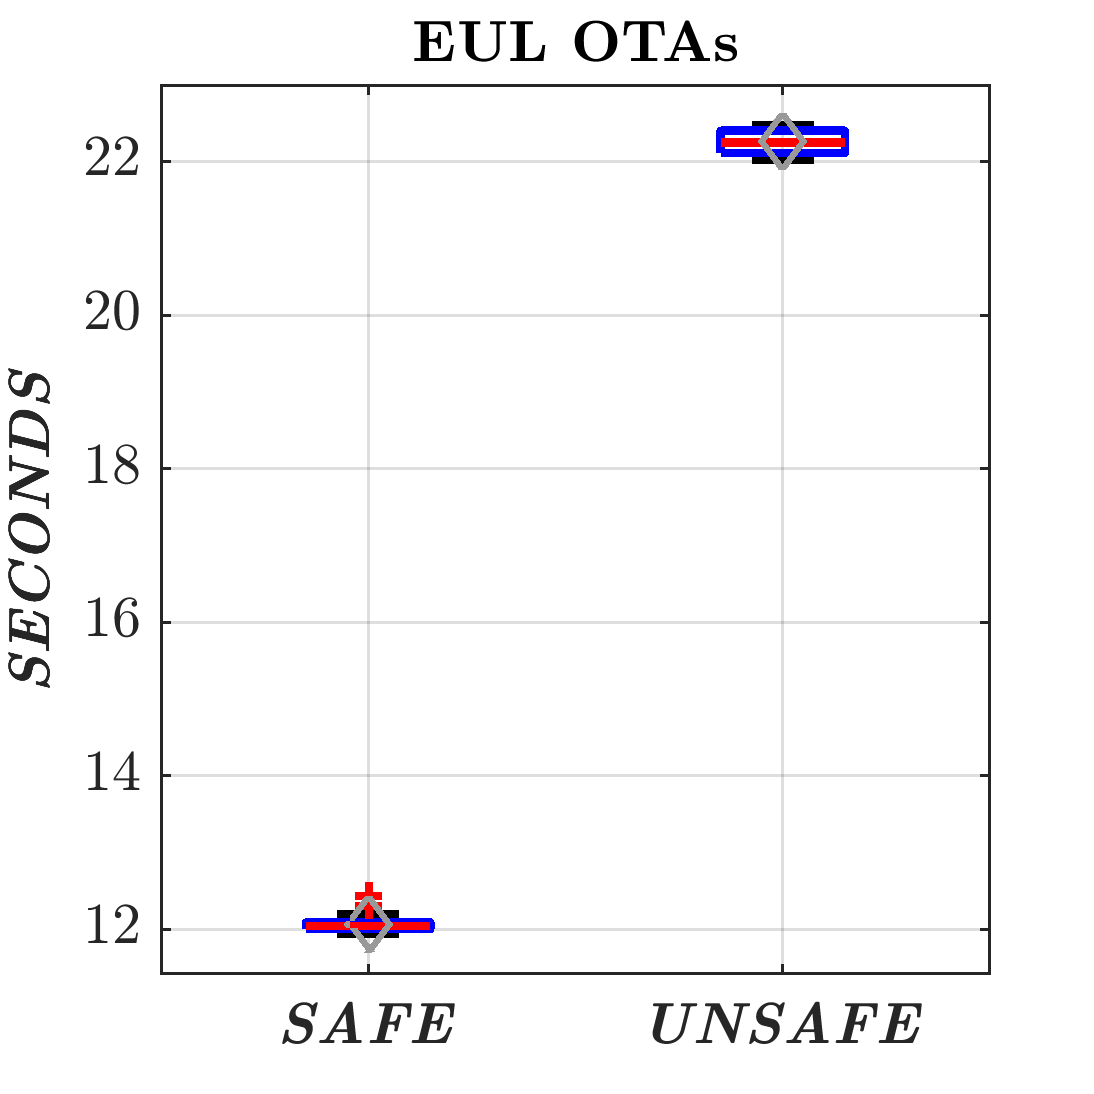
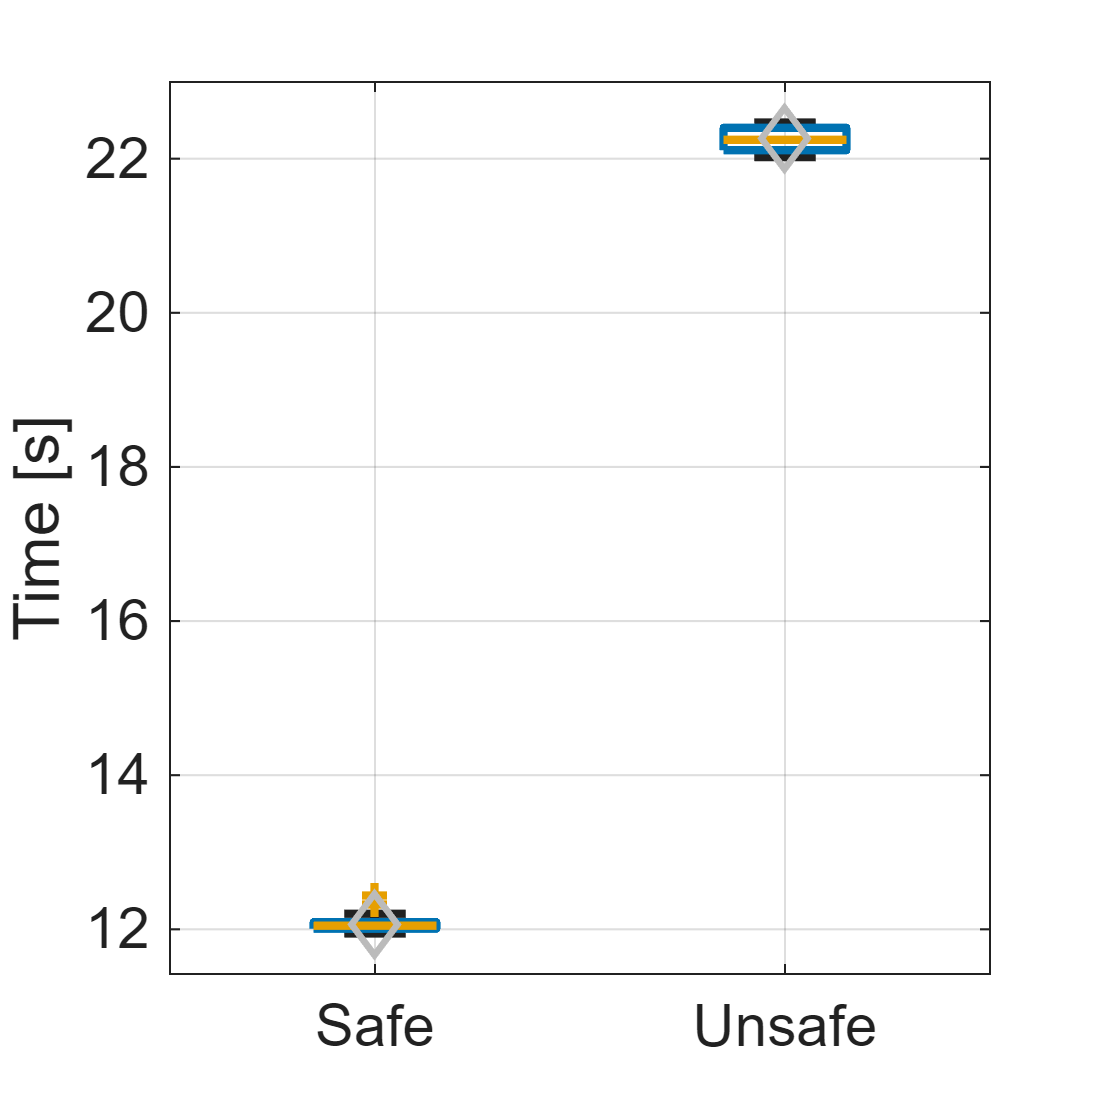
Boxplots script updated

diff --git a/EvaluationDBC/benchmark.m b/EvaluationDBC/benchmark.m
@@ -1,10 +1,65 @@
+function print_statistics(mean, median, std, min, max)
+    fprintf('\tAverage: %.2f\n', mean);
+    fprintf('\tMedian: %.2f\n', median);
+    fprintf('\tStandard Deviation: %.2f\n', std);
+    fprintf('\tMin: %.2f\n', min);
+    fprintf('\tMax: %.2f\n', max);
+end
+
+function print_boxplot(filename, data, group, means)
+    blue = [0, 114, 178]/255;
+    red = [230, 159, 0]/255;
+    gray = [187, 187, 187]/255;
+
+    figure;
+    h = boxplot(data, group);
+    hold on; % keep the boxplot
+
+    set(gca, 'FontSize', 14); % set font size
+        
+    % Add rhombus to the boxplot
+    for i = 1:length(means)
+        plot(i, means(i), 'd', 'MarkerSize', 10, 'Color', gray);
+    end
+    
+    grid on;
+    
+    % Thickness
+    set(findobj(gca, 'Type', 'Line'), 'LineWidth', 2);
+
+    % White background
+    set(gcf, 'Position', [200, 200, 350, 350], 'Color', 'w');
+    
+    % Labels
+    set(gca, 'XTickLabel', {'Safe', 'Unsafe'});
+    ylabel('Time [s]');
+    
+    % Get objects
+    boxes = findobj(h, 'Tag', 'Box');
+    medians = findobj(h, 'Tag', 'Median');
+    whiskers = findobj(h, 'Tag', 'Whisker');
+    caps = findobj(h, 'Tag', 'Cap');
+    outliers = findobj(h, 'Tag', 'Outliers');
+    
+    set(boxes, 'Color', blue, 'LineWidth', 2);
+    set(medians, 'Color', red, 'LineWidth', 2);
+    set(whiskers, 'Color', red, 'LineWidth', 2);
+    set(caps, 'Color', red, 'LineWidth', 2);
+    set(outliers, 'Color', red, 'LineWidth', 2);
+    set(outliers, 'MarkerEdgeColor', red, 'MarkerSize', 6); 
+    
+    print(filename,'-dpng','-r300');  % -dpng = PNG format, -r300 = 300 dpi
+    
+    hold off;
+end
+
 % Read data from files
-E1 = readmatrix('.\results\safe.txt');
-E2 = readmatrix('.\results\unsafe.txt');
+M1 = readmatrix('.\results\safe.txt');
+M2 = readmatrix('.\results\unsafe.txt');
 
 % Exclude EUL
-E1 = E1(1:450, :);
-E2 = E2(1:450, :);
+E1 = M1(1:450, :);
+E2 = M2(1:450, :);
 
 % All data
 data = [E1; E2];
@@ -20,14 +75,9 @@ mins = [min(E1), min(E2)];
 maxs = [max(E1), max(E2)];
 
 % Print statistics for each experiment
-fprintf('Statistics for each experiment\n');
+fprintf('Statistics for each experiment (EUL excluded):\n');
 for i = 1:2
-    fprintf('Experiment %d:\n', i);
-    fprintf('\tAverage: %.2f\n', means(i));
-    fprintf('\tMedian: %.2f\n', medians(i));
-    fprintf('\tStandard Deviation: %.2f\n', std_devs(i));
-    fprintf('\tMin: %.2f\n', mins(i));
-    fprintf('\tMax: %.2f\n', maxs(i));
+    print_statistics(means(i), medians(i), std_devs(i), mins(i), maxs(i));
 end
 
 % Statistics for all the experiements
@@ -38,45 +88,41 @@ min_all = min(data);
 max_all = max(data);
 
 % Print statistics for all the experiments
-fprintf('\nStatistics for all the experiments:\n');
-fprintf('\tAverage: %.2f\n', mean_all);
-fprintf('\tMedian: %.2f\n', median_all);
-fprintf('\tStandard Deviation: %.2f\n', std_devs_all);
-fprintf('\tMin: %.2f\n', min_all);
-fprintf('\tMax: %.2f\n', max_all);
+fprintf('\nStatistics for all the experiments (EUL excluded):\n');
+print_statistics(mean_all, median_all, std_devs_all, min_all, max_all);
+print_boxplot('results/boxplot', data, group, means);
 
-% Boxplot
-figure;
-boxplot(data, group);
-hold on; % keep the boxplot
+% Only EUL
+E1 = M1(451:500, :);
+E2 = M2(451:500, :);
 
-% Add rhombus to the boxplot
-for i = 1:length(means)
-    plot(i, means(i), 'd', 'MarkerSize', 10, 'Color', [0.6, 0.6, 0.6]);
+% All data
+data = [E1; E2];
+
+% Grouping
+group = [ones(size(E1)); 2*ones(size(E2))];
+
+% Statistics
+means = [mean(E1), mean(E2)];
+medians = [median(E1), median(E2)];
+std_devs = [std(E1), std(E2)];
+mins = [min(E1), min(E2)];
+maxs = [max(E1), max(E2)];
+
+% Print statistics for each experiment
+fprintf('Statistics for each experiment (only EUL):\n');
+for i = 1:2
+    print_statistics(means(i), medians(i), std_devs(i), mins(i), maxs(i));
 end
 
-grid on;
+% Statistics for all the experiements
+mean_all = mean(data);
+median_all = median(data);
+std_devs_all = std(data);
+min_all = min(data);
+max_all = max(data);
 
-fontSize=14;
-
-% Labels
-ax = gca; % Get axes
-set(gca, ...
-        'XTickLabel', {'\textbf{\emph{SAFE}}', '\textbf{\emph{UNSAFE}}'}, ...
-        'TickLabelInterpreter','latex', ...
-        'FontSize', fontSize ...
-);
-
-ylabel('\textbf{\emph{SECONDS}}', 'Interpreter', 'latex', 'FontSize', fontSize);
-title('\textbf{OTAs}', 'Interpreter', 'latex', 'FontSize', fontSize);
-
-
-% Thickness
-set(findobj(gca, 'type', 'line'), 'LineWidth', 2);
-
-% White background
-set(gcf, 'Position', [200, 200, 350, 350], 'Color', 'w'); 
-
-print('results/boxplot','-dpng','-r300');  % -dpng = PNG format, -r300 = 300 dpi
-
-hold off;
+% Print statistics for all the experiments
+fprintf('\nStatistics for all the experiments (only EUL):\n');
+print_statistics(mean_all, median_all, std_devs_all, min_all, max_all);
+print_boxplot('results/boxplot_eul', data, group, means);
